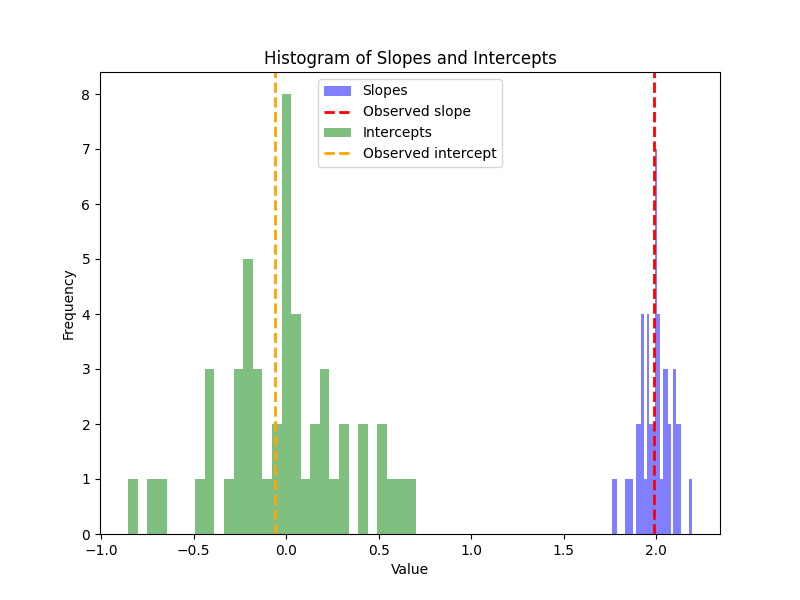
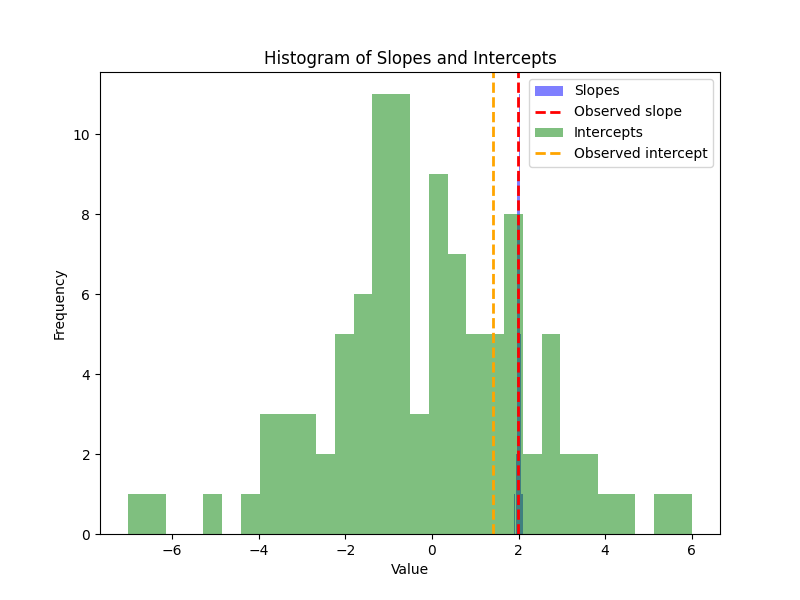
increase randomization

diff --git a/app.py b/app.py
@@ -10,18 +10,20 @@ import base64
 app = Flask(__name__)
 
 def generate_plots(N, mu, sigma2, S):
-    # Simulate data
-    x = np.random.normal(mu, np.sqrt(sigma2), N)
-    y = 2 * x + np.random.normal(0, np.sqrt(sigma2), N)  # Linear relationship with noise
+    # Generate X values from a uniform distribution
+    x = np.random.uniform(low=-20, high=20, size=N)
+    
+    # Introduce more variability to Y by adding more noise and a non-linear component
+    y = 2 * x + np.random.normal(0, np.sqrt(4 * sigma2), N) + np.random.uniform(-10, 10, N)
 
-    # Fit linear regression
+    # Fit linear regression using numpy's polyfit
     slope, intercept = np.polyfit(x, y, 1)
     
     # Generate plot1: regression plot
     plt.figure(figsize=(8, 6))
-    plt.scatter(x, y, label='Data points', alpha=0.5)
+    plt.scatter(x, y, label='Data points', alpha=0.5, color='purple')
     plt.plot(x, slope * x + intercept, color='red', label='Fitted line')
-    plt.title('Linear Regression')
+    plt.title('Linear Regression with Random Data')
 
     # Add the linear fit equation to the plot
     equation_text = f'Y = {slope:.2f}X + {intercept:.2f}'
@@ -35,13 +37,13 @@ def generate_plots(N, mu, sigma2, S):
     plt.savefig(plot1_path)
     plt.close()
 
-    # Generate histograms for slopes and intercepts
+    # Generate histograms for slopes and intercepts from multiple simulations
     slopes = []
     intercepts = []
 
     for _ in range(S):
-        x_sim = np.random.normal(mu, np.sqrt(sigma2), N)
-        y_sim = 2 * x_sim + np.random.normal(0, np.sqrt(sigma2), N)
+        x_sim = np.random.uniform(low=-20, high=20, size=N)
+        y_sim = 2 * x_sim + np.random.normal(0, np.sqrt(4 * sigma2), N) + np.random.uniform(-10, 10, N)
         slope_sim, intercept_sim = np.polyfit(x_sim, y_sim, 1)
         slopes.append(slope_sim)
         intercepts.append(intercept_sim)
@@ -59,17 +61,17 @@ def generate_plots(N, mu, sigma2, S):
 
     plt.title('Histogram of Slopes and Intercepts')
     plt.xlabel('Value')
-    plt.ylabel('Frequency')  # Change y-axis label to Frequency
+    plt.ylabel('Frequency')
     plt.legend()
-    slopes_hist_path = 'static/slopes_hist.png'
-    plt.savefig(slopes_hist_path)
+    plot2_path = 'static/histogram_plot.png'
+    plt.savefig(plot2_path)
     plt.close()
 
     # Calculate proportions of extreme slopes and intercepts
     slope_extreme = np.mean(np.abs(np.array(slopes) - slope) > np.abs(slope))
     intercept_extreme = np.mean(np.abs(np.array(intercepts) - intercept) > np.abs(intercept))
 
-    return plot1_path, slopes_hist_path, slope_extreme, intercept_extreme
+    return plot1_path, plot2_path, slope_extreme, intercept_extreme
 
 
 @app.route("/", methods=["GET", "POST"])
